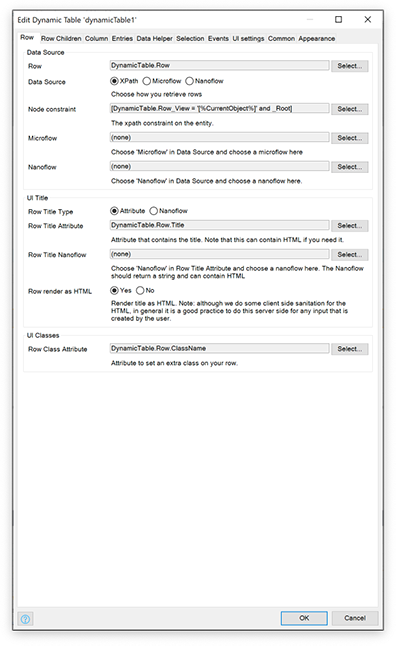
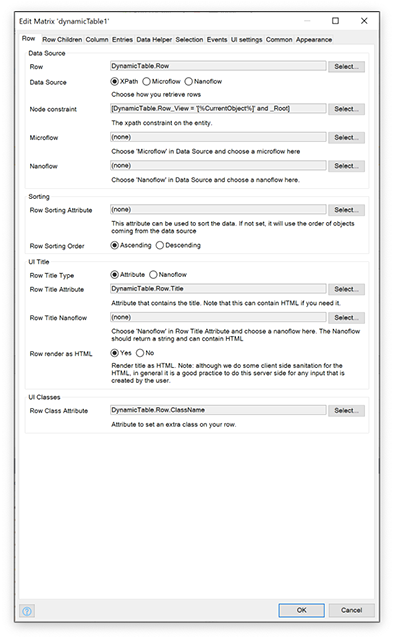
Add sorting attribute to matrix

Changed region(s): [[0.0305, 0.0, 0.9746, 0.9812]]

diff --git a/src/store/store.ts b/src/store/store.ts
@@ -8,8 +8,11 @@ import { TableRecord } from "../util/table";
 import arrayToTree, { Tree } from "array-to-tree";
 import { getObject } from "@jeltemx/mendix-react-widget-utils";
 import { ValidationMessage } from "../util/validation";
+import sortBy from "lodash/sortBy";
 
 configure({ enforceActions: "observed" });
+
+export type SortingType = "none" | "asc" | "desc";
 
 export interface TableGuids {
     context: string | null;
@@ -26,6 +29,8 @@ export interface TableStoreConstructorOptions {
     reloadEntriesOnColChange?: boolean;
     reloadEntriesOnRowChange?: boolean;
     validationMessages?: ValidationMessage[];
+    sortingTypeRows?: SortingType;
+    sortingTypeColumns?: SortingType;
 }
 
 export interface TableObjectOptions extends TableObjectGetOptions {}
@@ -54,12 +59,22 @@ export class TableStore {
 
     private reloadOnColChange = true;
     private reloadOnRowChange = true;
+    private sortingTypeRows: SortingType;
+    private sortingTypeColumns: SortingType;
 
     // Flow actions
 
     // Constructor
     constructor(opts: TableStoreConstructorOptions) {
-        const { contextObject, subscriptionHandler, onSelectionChange, entriesLoader, validationMessages } = opts;
+        const {
+            contextObject,
+            subscriptionHandler,
+            onSelectionChange,
+            entriesLoader,
+            validationMessages,
+            sortingTypeRows,
+            sortingTypeColumns
+        } = opts;
 
         this.isLoading = false;
         this.contextObject = contextObject || null;
@@ -71,6 +86,9 @@ export class TableStore {
 
         this.entriesLoader = entriesLoader || ((_guids: TableGuids): void => {});
         this.validationMessages = validationMessages || [];
+
+        this.sortingTypeRows = sortingTypeRows || "none";
+        this.sortingTypeColumns = sortingTypeColumns || "none";
 
         if (entriesLoader) {
             when(
@@ -354,13 +372,21 @@ export class TableStore {
 
     @computed
     get tableColumns(): Array<ColumnProps<TableRecord>> {
-        return this.columns.map(col => ({
+        const columns = this.columns.map(col => ({
             key: col.id,
             dataIndex: col.id,
             guid: col.guid,
             title: col.title,
+            sortKey: col._sortKey,
             className: col.className
         }));
+
+        if (this.sortingTypeColumns === "asc") {
+            return sortBy(columns, "sortKey");
+        } else if (this.sortingTypeColumns === "desc") {
+            return sortBy(columns, "sortKey").reverse();
+        }
+        return columns;
     }
 
     @computed
@@ -369,6 +395,7 @@ export class TableStore {
             const record: TableRecord = {
                 key: row.guid,
                 guid: row.guid,
+                sortKey: row.sortKey,
                 "row-title": row.title,
                 _classObj: {},
                 _className: row.className
@@ -399,7 +426,14 @@ export class TableStore {
             return record;
         });
 
-        const tree = arrayToTree(rows, arrayToTreeOpts);
+        const tree = arrayToTree(
+            this.sortingTypeRows === "none"
+                ? rows
+                : this.sortingTypeRows === "asc"
+                ? sortBy(rows, "sortKey")
+                : sortBy(rows, "sortKey").reverse(),
+            arrayToTreeOpts
+        );
         return tree.filter(treeEl => typeof treeEl._parent === "undefined" && !treeEl._parent);
     }
 

diff --git a/src/DynamicTable.tsx b/src/DynamicTable.tsx
@@ -69,12 +69,17 @@ class DynamicTable extends Component<DynamicTableContainerProps> {
 
         this.bindMethods();
 
+        const sortingTypeRows = props.rowSortingAttribute !== "" ? props.rowSortingOrder : "none";
+        const sortingTypeColumns = props.columnSortingAttribute !== "" ? props.columnSortingOrder : "none";
+
         const validationMessages = this.getRuntimeValidations(props);
 
         this.store = new TableStore({
             entriesLoader: this.entriesLoad,
             onSelectionChange: this.onSelectionChange,
-            validationMessages
+            validationMessages,
+            sortingTypeRows,
+            sortingTypeColumns
         });
     }
 
@@ -151,6 +156,7 @@ class DynamicTable extends Component<DynamicTableContainerProps> {
         this.setAxisObjects = this.setAxisObjects.bind(this);
         this.getTitleMethod = this.getTitleMethod.bind(this);
         this.getClassMethod = this.getClassMethod.bind(this);
+        this.getSortMethod = this.getSortMethod.bind(this);
         this.expanderFunc = this.expanderFunc.bind(this);
         this.onSelectionChange = this.onSelectionChange.bind(this);
         this.clickTypeHandler = this.clickTypeHandler.bind(this);
@@ -249,19 +255,23 @@ class DynamicTable extends Component<DynamicTableContainerProps> {
             rowTitleAttr,
             rowTitleNanoflow,
             rowClassAttr,
+            rowSortingAttribute,
             columnTitleType,
             columnTitleAttr,
             columnTitleNanoflow,
-            columnClassAttr
+            columnClassAttr,
+            columnSortingAttribute
         } = this.props;
         if (axis === "row") {
             this.store.setRows(objects, this.rowChildReference, this.hasChildAttr, parent, clean, {
                 classMethod: this.getClassMethod(rowClassAttr),
+                sortMethod: this.getSortMethod(rowSortingAttribute),
                 titleMethod: this.getTitleMethod(rowTitleType, rowTitleAttr, rowTitleNanoflow, "row")
             });
         } else {
             this.store.setColumns(objects, {
                 classMethod: this.getClassMethod(columnClassAttr),
+                sortMethod: this.getSortMethod(columnSortingAttribute),
                 titleMethod: this.getTitleMethod(columnTitleType, columnTitleAttr, columnTitleNanoflow, "column")
             });
         }
@@ -296,6 +306,15 @@ class DynamicTable extends Component<DynamicTableContainerProps> {
                 return "";
             }
             return obj.get(attr) as string;
+        };
+    }
+
+    private getSortMethod(attr: string): (obj: mendix.lib.MxObject) => string | null | number {
+        return (obj: mendix.lib.MxObject): string | null | number => {
+            if (!obj || !attr) {
+                return null;
+            }
+            return obj.get(attr) as string | number;
         };
     }
 

diff --git a/src/store/objects/abstract/table-object.ts b/src/store/objects/abstract/table-object.ts
@@ -2,11 +2,13 @@ import { computed, flow, observable, action } from "mobx";
 import { ReactNode } from "react";
 
 export type TitleMethod = ((obj: mendix.lib.MxObject) => Promise<ReactNode | string>) | null;
+export type SortMethod = ((obj: mendix.lib.MxObject) => string | number | null) | null;
 export type ClassMethod = ((obj: mendix.lib.MxObject) => string) | null;
 
 export interface TableObjectGetOptions {
     titleMethod?: TitleMethod;
     classMethod?: ClassMethod;
+    sortMethod?: SortMethod;
 }
 
 export interface TableObjectOptions {
@@ -23,9 +25,11 @@ export class TableObject {
 
     public _titleMethod: TitleMethod;
     public _classMethod: ClassMethod;
+    public _sortMethod: SortMethod;
 
     @observable _title: string;
     @observable _class: string;
+    @observable _sortKey: null | string | number;
 
     fixTitle = flow(function*(this: TableObject) {
         if (this._titleMethod) {
@@ -36,18 +40,20 @@ export class TableObject {
 
     constructor(opts: TableObjectOptions) {
         const { mxObject, changeHandler, getMethods } = opts;
-        const { titleMethod, classMethod } = getMethods;
+        const { titleMethod, classMethod, sortMethod } = getMethods;
         this._obj = mxObject;
 
         this._title = "";
+        this._sortKey = null;
         this._class = "";
         this._titleMethod = titleMethod || null;
         this._classMethod = classMethod || null;
+        this._sortMethod = sortMethod || null;
         this._changeHandler = changeHandler || ((): void => {});
         this._subscriptions = [];
 
         if (!changeHandler) {
-            console.log("No changehandler for ", opts);
+            console.warn("No changehandler for ", opts);
         }
 
         if (titleMethod) {
@@ -56,6 +62,10 @@ export class TableObject {
 
         if (classMethod) {
             this.fixClass();
+        }
+
+        if (sortMethod) {
+            this.fixSorting();
         }
 
         if (this._obj) {
@@ -78,6 +88,13 @@ export class TableObject {
     }
 
     @action
+    fixSorting(): void {
+        if (this._sortMethod) {
+            this._sortKey = this._sortMethod(this._obj);
+        }
+    }
+
+    @action
     resetSubscription(): void {
         const { subscribe } = window.mx.data;
         this.clearSubscriptions();
@@ -95,6 +112,8 @@ export class TableObject {
                             }
                         } else {
                             this.fixTitle();
+                            this.fixSorting();
+                            this.fixClass();
                         }
                     });
                 }
@@ -111,6 +130,11 @@ export class TableObject {
     @computed
     get className(): string {
         return this._class;
+    }
+
+    @computed
+    get sortKey(): string | number | null {
+        return this._sortKey;
     }
 
     @computed

diff --git a/typings/DynamicTableProps.d.ts b/typings/DynamicTableProps.d.ts
@@ -12,6 +12,7 @@ export type SelectionMode = "none" | "single" | "multi";
 export type ClickType = "single" | "double";
 export type SimpleAction = "nothing" | "microflow" | "nanoflow";
 export type FullAction = "nothing" | "microflow" | "nanoflow" | "open";
+export type SortingType = "asc" | "desc";
 
 export namespace TableStyle {
     export type HeightUnitType = "percentageOfWidth" | "percentageOfParent" | "pixels";
@@ -52,6 +53,8 @@ interface DynamicTableRowProps {
     rowConstraint: string;
     rowGetDataMicroflow: string;
     rowGetDataNanoflow: Nanoflow;
+    rowSortingAttribute: string;
+    rowSortingOrder: SortingType;
     rowTitleType: TitleDataSourceType;
     rowTitleAttr: string;
     rowTitleNanoflow: Nanoflow;
@@ -74,6 +77,8 @@ interface DynamicTableColumnProps {
     columnConstraint: string;
     columnGetDataMicroflow: string;
     columnGetDataNanoflow: Nanoflow;
+    columnSortingAttribute: string;
+    columnSortingOrder: SortingType;
     columnTitleType: TitleDataSourceType;
     columnTitleAttr: string;
     columnTitleNanoflow: Nanoflow;

diff --git a/README.md b/README.md
@@ -31,7 +31,7 @@ Show a reference table. Rows & Columns are Mendix objects, Entry objects are in 
 - Selection of rows (single, multi)
 - Events: Click/Double click on Row, Column, Entry or empty field
 
-> This widget is about 580Kb uncompressed, so in your cloud deployment this widget should take about 150 Kb of network resources
+> This widget is about 600Kb uncompressed, so in your cloud deployment this widget should take about 160 Kb of network resources
 
 Tested:
 
